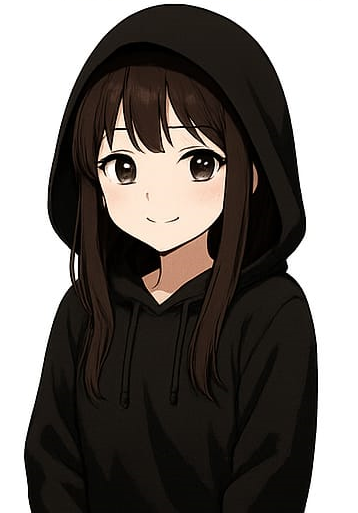
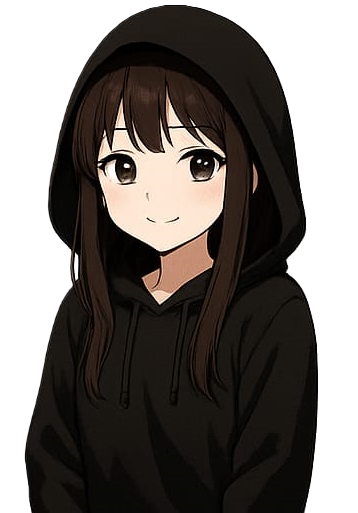
165

diff --git a/src/components/HomePage.js b/src/components/HomePage.js
@@ -34,7 +34,7 @@ const HomePage = () => {
       />
 
       <img
-        src="/stiker3.png"
+        src="/sticker3.png"
         alt="Decoración derecha"
         className="hidden md:block pointer-events-none select-none absolute right-10 top-24 w-64"
       />
